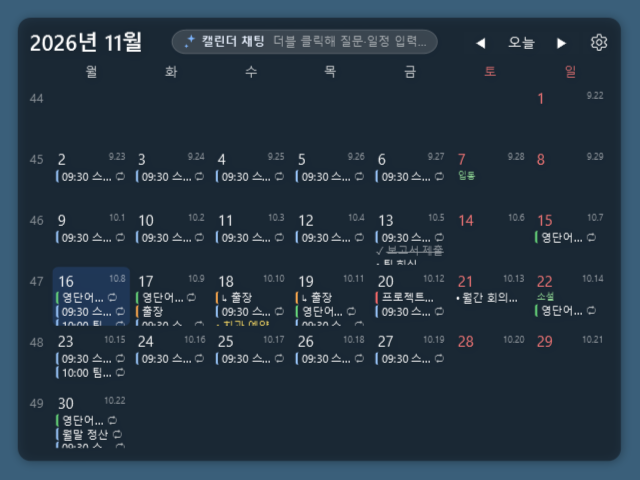
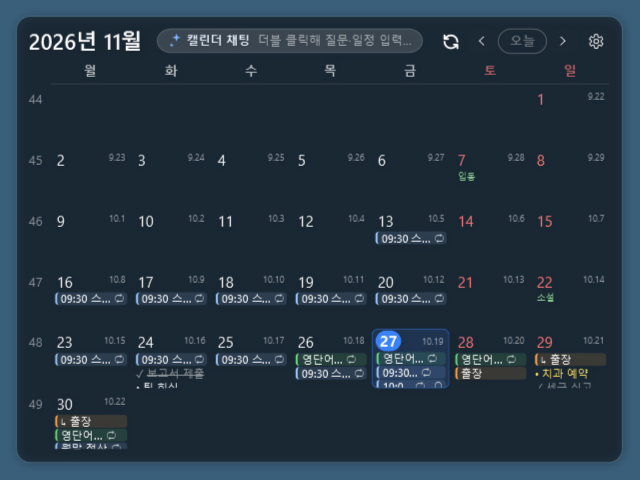
s

diff --git a/src/DeskCal.App/MainWindow.xaml b/src/DeskCal.App/MainWindow.xaml
@@ -5,11 +5,37 @@
         WindowStyle="None" AllowsTransparency="True" Background="Transparent"
         ShowInTaskbar="False" ResizeMode="NoResize" ShowActivated="False"
         UseLayoutRounding="True" TextOptions.TextFormattingMode="Display">
+    <Window.Resources>
+        <!-- header icon buttons: one size, one hover/pressed state layer -->
+        <Style x:Key="NavBtn" TargetType="Border">
+            <Setter Property="MinWidth" Value="28"/>
+            <Setter Property="Height" Value="26"/>
+            <Setter Property="Padding" Value="6,0"/>
+            <Setter Property="CornerRadius" Value="7"/>
+            <Setter Property="Cursor" Value="Hand"/>
+            <Setter Property="VerticalAlignment" Value="Center"/>
+            <Setter Property="Background" Value="#01FFFFFF"/>
+            <Style.Triggers>
+                <Trigger Property="IsMouseOver" Value="True">
+                    <Setter Property="Background" Value="#24FFFFFF"/>
+                </Trigger>
+                <Trigger Property="IsEnabled" Value="False">
+                    <Setter Property="Background" Value="#01FFFFFF"/>
+                </Trigger>
+            </Style.Triggers>
+        </Style>
+        <Style x:Key="NavGlyph" TargetType="TextBlock">
+            <Setter Property="FontFamily" Value="Segoe Fluent Icons, Segoe MDL2 Assets, Segoe UI Symbol"/>
+            <Setter Property="FontSize" Value="12"/>
+            <Setter Property="HorizontalAlignment" Value="Center"/>
+            <Setter Property="VerticalAlignment" Value="Center"/>
+        </Style>
+    </Window.Resources>
     <Border x:Name="Frame" CornerRadius="14" Background="#99101820"
-            BorderBrush="Transparent" BorderThickness="2">
+            BorderBrush="#1FFFFFFF" BorderThickness="1">
       <Grid>
         <!-- optional background photo (see ApplySkin) -->
-        <Border x:Name="SkinLayer" CornerRadius="12" IsHitTestVisible="False" Visibility="Collapsed"/>
+        <Border x:Name="SkinLayer" CornerRadius="13" IsHitTestVisible="False" Visibility="Collapsed"/>
         <Border Padding="12,10,12,12">
         <Grid x:Name="Root">
             <Grid.RowDefinitions>
@@ -93,23 +119,24 @@
                             </Path.RenderTransform>
                         </Path>
                     </Border>
-                    <Border x:Name="PrevBtn" Padding="10,2" Cursor="Hand" Background="#01FFFFFF"
+                    <!-- month navigation: vector chevrons (no text arrows), shared hover state, Today as a pill -->
+                    <Border x:Name="PrevBtn" Style="{StaticResource NavBtn}"
                             MouseLeftButtonDown="Prev_Click" ToolTip="이전">
-                        <TextBlock x:Name="PrevText" Text="◀" FontSize="14"/>
+                        <TextBlock x:Name="PrevText" Text="&#xE76B;" Style="{StaticResource NavGlyph}"/>
                     </Border>
-                    <Border x:Name="TodayBtn" Padding="10,2" Cursor="Hand" Background="#01FFFFFF"
+                    <Border x:Name="TodayBtn" Style="{StaticResource NavBtn}" Padding="11,0" Margin="2,0"
+                            BorderBrush="#44FFFFFF" BorderThickness="1" CornerRadius="13"
                             MouseLeftButtonDown="Today_Click" ToolTip="오늘로 이동">
-                        <TextBlock x:Name="TodayText" Text="오늘" FontSize="14"/>
+                        <TextBlock x:Name="TodayText" Text="오늘" FontSize="12.5" FontWeight="SemiBold" VerticalAlignment="Center"/>
                     </Border>
-                    <Border x:Name="NextBtn" Padding="10,2" Cursor="Hand" Background="#01FFFFFF"
+                    <Border x:Name="NextBtn" Style="{StaticResource NavBtn}"
                             MouseLeftButtonDown="Next_Click" ToolTip="다음">
-                        <TextBlock x:Name="NextText" Text="▶" FontSize="14"/>
+                        <TextBlock x:Name="NextText" Text="&#xE76C;" Style="{StaticResource NavGlyph}"/>
                     </Border>
                     <!-- settings gear: icon only; opens the quick menu (see App.ShowQuickMenu) -->
-                    <Border x:Name="GearBtn" Padding="8,2,2,2" Margin="4,0,0,0" Cursor="Hand" Background="#01FFFFFF"
+                    <Border x:Name="GearBtn" Style="{StaticResource NavBtn}" Margin="6,0,0,0"
                             MouseLeftButtonDown="Gear_Click" ToolTip="캘린더 설정">
-                        <TextBlock x:Name="GearText" Text="&#xE713;" FontSize="17" VerticalAlignment="Center"
-                                   FontFamily="Segoe Fluent Icons, Segoe MDL2 Assets, Segoe UI Symbol"/>
+                        <TextBlock x:Name="GearText" Text="&#xE713;" Style="{StaticResource NavGlyph}" FontSize="15"/>
                     </Border>
                 </StackPanel>
             </Grid>

diff --git a/src/DeskCal.App/MainWindow.xaml.cs b/src/DeskCal.App/MainWindow.xaml.cs
@@ -1070,8 +1070,9 @@ public partial class MainWindow : Window
         var off = Brush(s.OffDayColor, Color.FromRgb(0xFF, 0x7A, 0x7A));
         var font = new FontFamily(s.FontFamily);
 
-        foreach (var tb in new[] { MonthTitle, PrevText, TodayText, NextText }) { tb.Foreground = text; tb.FontFamily = font; }
-        GearText.Foreground = text;   // keeps its own icon font
+        foreach (var tb in new[] { MonthTitle, TodayText }) { tb.Foreground = text; tb.FontFamily = font; }
+        foreach (var tb in new[] { PrevText, NextText, GearText }) tb.Foreground = text;   // keep their own icon font
+        TodayBtn.BorderBrush = new SolidColorBrush(WithAlpha(((SolidColorBrush)text).Color, 0x44));
         bool canGoToday = !BoardLayout.IsAtToday(_anchor, _renderedToday, s);
         TodayBtn.IsEnabled = canGoToday;
         TodayBtn.Cursor = canGoToday ? System.Windows.Input.Cursors.Hand : System.Windows.Input.Cursors.Arrow;
@@ -1102,10 +1103,22 @@ public partial class MainWindow : Window
             Place(new TextBlock
             {
                 Text = culture.DateTimeFormat.GetAbbreviatedDayName(dow),
-                Foreground = isOff ? off : text, Opacity = 0.8, FontFamily = font, FontSize = headerSize,
-                HorizontalAlignment = HorizontalAlignment.Center, Margin = new Thickness(0, 0, 0, 4),
+                Foreground = isOff ? off : text, Opacity = 0.72, FontFamily = font, FontSize = headerSize,
+                FontWeight = FontWeights.SemiBold,
+                HorizontalAlignment = HorizontalAlignment.Center, Margin = new Thickness(0, 0, 0, 6),
             }, 0, c + colOffset);
         }
+        // hairline under the weekday labels: separates the header from the day grid
+        var rule = new Border
+        {
+            Height = 1, VerticalAlignment = VerticalAlignment.Bottom, IsHitTestVisible = false,
+            Background = new SolidColorBrush(WithAlpha(((SolidColorBrush)text).Color, 0x22)),
+            Margin = new Thickness(s.CellGap / 2.0, 0, s.CellGap / 2.0, 0),
+        };
+        Grid.SetRow(rule, 0);
+        Grid.SetColumn(rule, colOffset);
+        Grid.SetColumnSpan(rule, grid.Columns);
+        GridHost.Children.Add(rule);
 
         bool dense = grid.Columns > 7;                // single-line modes: narrow cells
         double dayFont = dense ? Math.Max(9, s.FontSize - 3) : s.FontSize;
@@ -1181,15 +1194,26 @@ public partial class MainWindow : Window
         var shown = _countdowns is null || _contentHidden ? []
             : CountdownCalc.Ordered(_countdowns.List().Where(c => c.ShowBottom), _renderedToday);
         CountdownBar.Visibility = shown.Count == 0 ? Visibility.Collapsed : Visibility.Visible;
+        var textColor = ((SolidColorBrush)text).Color;
+        var accent = Color.FromRgb(0x3B, 0x82, 0xF6);
         foreach (var (cd, status) in shown)
         {
-            var tb = new TextBlock
+            // one chip per countdown: the "D-12" label in bold, then the title; D-Day itself gets the accent fill
+            bool isDay = status.Days == 0 && !status.Elapsed;
+            string summary = CountdownCalc.Summary(cd, status);
+            string rest = summary.StartsWith(status.Label, StringComparison.Ordinal) ? summary[status.Label.Length..] : " " + summary;
+            var tb = new TextBlock { Foreground = isDay ? Brushes.White : text, FontFamily = font, FontSize = size, VerticalAlignment = VerticalAlignment.Center };
+            var label = new Run(status.Label) { FontWeight = FontWeights.Bold };
+            Typography.SetNumeralAlignment(label, FontNumeralAlignment.Tabular);
+            tb.Inlines.Add(label);
+            tb.Inlines.Add(new Run(rest));
+            CountdownBar.Children.Add(new Border
             {
-                Text = CountdownCalc.Summary(cd, status), Foreground = text, FontFamily = font, FontSize = size,
-                Margin = new Thickness(0, 0, 14, 0), Opacity = status.Elapsed ? 0.65 : 0.95,
-            };
-            if (status.Days == 0 && !status.Elapsed) tb.FontWeight = FontWeights.Bold;
-            CountdownBar.Children.Add(tb);
+                Child = tb, CornerRadius = new CornerRadius(size), Padding = new Thickness(9, 2, 10, 3), Margin = new Thickness(0, 0, 6, 4),
+                Background = new SolidColorBrush(isDay ? accent : WithAlpha(textColor, 0x16)),
+                BorderBrush = new SolidColorBrush(isDay ? accent : WithAlpha(textColor, 0x26)), BorderThickness = new Thickness(1),
+                Opacity = status.Elapsed ? 0.6 : 1.0, ToolTip = summary,
+            });
         }
     }
 
@@ -1249,7 +1273,13 @@ public partial class MainWindow : Window
             border.Background = new SolidColorBrush(WithAlpha(cc, 0x66));
         else if (isHighlighted) border.Background = new SolidColorBrush(Color.FromArgb(0x38, 0xFF, 0xC8, 0x57));
         else if (cell.IsToday) border.Background = new SolidColorBrush(dense ? Color.FromArgb(0xB0, accent.R, accent.G, accent.B)
-                                                                              : Color.FromArgb(0x30, accent.R, accent.G, accent.B));
+                                                                              : Color.FromArgb(0x26, accent.R, accent.G, accent.B));
+        if (cell.IsToday && !isHighlighted && !dense)
+        {
+            // today: a thin accent outline on top of the tint, so it reads even over a busy background photo
+            border.BorderBrush = new SolidColorBrush(Color.FromArgb(0x8C, accent.R, accent.G, accent.B));
+            border.BorderThickness = new Thickness(1);
+        }
         else if (isDayOffCell && !string.IsNullOrWhiteSpace(s.HolidayBgColor))
         {
             var hc = UiColors.Parse(s.HolidayBgColor, Colors.Transparent);
@@ -1272,6 +1302,22 @@ public partial class MainWindow : Window
             Margin = new Thickness(6, 4, 0, 0),
         };
         UIElement head = number;
+        if (cell.IsToday && !dense)
+        {
+            // today's number sits on a filled accent pill: the strongest mark on the board, found at a glance
+            number.Margin = new Thickness(0);
+            number.Foreground = Brushes.White;
+            number.FontWeight = FontWeights.Bold;
+            number.HorizontalAlignment = HorizontalAlignment.Center;
+            number.VerticalAlignment = VerticalAlignment.Center;
+            head = new Border
+            {
+                Background = new SolidColorBrush(accent), Child = number,
+                MinWidth = size * 1.4, Height = size * 1.4, CornerRadius = new CornerRadius(size * 0.7),
+                Padding = new Thickness(4, 0, 4, 0), Margin = new Thickness(3, 1, 0, 0),
+                HorizontalAlignment = HorizontalAlignment.Left,
+            };
+        }
 
         var stack = new StackPanel { Opacity = cell.InAnchorMonth ? 1.0 : 0.42 };
         stack.Children.Add(!dense && info is not null ? WithAnnotations(head, info, s, text, holidayBrush, font, size) : head);
@@ -1304,6 +1350,14 @@ public partial class MainWindow : Window
         border.ContextMenu = BuildCellMenu(cell.Date);
         // A single click does nothing (it used to open the editor, which fired by accident); double-click opens it.
         border.MouseLeftButtonDown += (_, e) => { if (e.ClickCount == 2 && !_editMode && !e.Handled) { e.Handled = true; OpenEditor(cell.Date); } };
+        // hover state layer: shows which day a double-click will open
+        var restBg = border.Background;
+        var restColor = (restBg as SolidColorBrush)?.Color ?? Colors.Transparent;
+        var hoverBg = new SolidColorBrush(restColor.A < 0x14
+            ? WithAlpha(((SolidColorBrush)text).Color, 0x14)
+            : WithAlpha(restColor, (byte)Math.Min(0xFF, restColor.A + 0x1C)));
+        border.MouseEnter += (_, _) => { if (!_editMode) border.Background = hoverBg; };
+        border.MouseLeave += (_, _) => border.Background = restBg;
         _cells[cell.Date] = border;
         return border;
     }
@@ -1353,22 +1407,40 @@ public partial class MainWindow : Window
 
     private static readonly SolidColorBrush DefaultEventBrush = Brush("#9CC9FF", Colors.LightSkyBlue);
 
+    /// <summary>The "reminder set" mark at the end of a line: a vector bell glyph in the line's colour (not an emoji, which
+    /// renders in its own palette and size on every Windows build).</summary>
+    private static TextBlock ReminderMark(WpfBrush fg, double size) => new()
+    {
+        Text = "", FontFamily = IconFont, Foreground = fg, FontSize = Math.Max(8.0, size - 2.0),
+        VerticalAlignment = VerticalAlignment.Center, Margin = new Thickness(4, 0, 0, 0), Opacity = 0.8, ToolTip = "알림 설정됨",
+    };
+
     /// <summary>An event inside a day cell: coloured left bar, time (first day only), title, done/repeat/D-day/reminder marks.</summary>
     private UIElement MakeEventLine(EventOccurrence occ, DateOnly day, WpfBrush text, FontFamily font, double size)
     {
         var color = occ.Event.Color is { } hex ? Brush(hex, Colors.LightSkyBlue) : DefaultEventBrush;
         bool done = occ.Event.Done;
         string donePrefix = done ? "✓ " : "";
-        string prefix = donePrefix + (day > occ.Date ? "↳ " : occ.StartTime is { } t ? $"{t:HH:mm} " : "");
+        string lead = day > occ.Date ? "↳ " : "";
+        string? time = day > occ.Date ? null : occ.StartTime is { } t ? $"{t:HH:mm}" : null;
         bool repeating = RecurrenceRule.From(occ.Event).IsRepeating;
 
         var tb = new TextBlock
         {
-            Text = prefix + occ.Event.Title, Foreground = text, FontFamily = font, FontSize = size,
+            Foreground = text, FontFamily = font, FontSize = size,
             TextTrimming = TextTrimming.CharacterEllipsis, TextWrapping = TextWrapping.NoWrap,
             TextDecorations = done ? TextDecorations.Strikethrough : null,
             Opacity = done ? 0.55 : 1.0,
         };
+        tb.Inlines.Add(new Run(donePrefix + lead));
+        if (time is not null)
+        {
+            // the start time is the scan key of a day: semibold and tabular so times line up across cells
+            var tr = new Run(time + " ") { FontWeight = FontWeights.SemiBold };
+            Typography.SetNumeralAlignment(tr, FontNumeralAlignment.Tabular);
+            tb.Inlines.Add(tr);
+        }
+        tb.Inlines.Add(new Run(occ.Event.Title));
 
         UIElement mainCol;
         if (repeating)
@@ -1391,7 +1463,7 @@ public partial class MainWindow : Window
         if (occ.Event.CountdownId is { } cdId && _countdownLabels.TryGetValue(cdId, out var dday))
             marks.Children.Add(new TextBlock { Text = dday, Foreground = text, FontFamily = font, FontSize = size - 1, FontWeight = FontWeights.SemiBold, Margin = new Thickness(4, 0, 0, 0), ToolTip = "기념일까지 카운트다운" });
         if (_settings.ShowReminderMark && _eventsWithReminder.Contains(occ.Event.Id))
-            marks.Children.Add(new TextBlock { Text = "⏰", FontSize = size - 1, Margin = new Thickness(3, 0, 0, 0), Opacity = 0.85, ToolTip = "알림 설정됨" });
+            marks.Children.Add(ReminderMark(text, size));
 
         UIElement child;
         if (marks.Children.Count > 0)
@@ -1410,10 +1482,12 @@ public partial class MainWindow : Window
             child = mainCol;
         }
 
+        // a soft chip in the event's own colour (left bar + faint tint); a done event drops the tint
+        var tint = done ? Brushes.Transparent : new SolidColorBrush(WithAlpha(color.Color, 0x24));
         var row = new Border
         {
-            Margin = new Thickness(4, _settings.LineGap, 2, 0), Padding = new Thickness(4, 0, 2, 0), CornerRadius = new CornerRadius(2),
-            BorderBrush = color, BorderThickness = new Thickness(2.5, 0, 0, 0), Background = Brushes.Transparent,
+            Margin = new Thickness(4, _settings.LineGap, 3, 0), Padding = new Thickness(4, 0, 3, 0), CornerRadius = new CornerRadius(3),
+            BorderBrush = color, BorderThickness = new Thickness(2.5, 0, 0, 0), Background = tint,
             Cursor = System.Windows.Input.Cursors.Hand,
             Child = child,
         };
@@ -1555,12 +1629,12 @@ public partial class MainWindow : Window
         Grid.SetColumn(textCol, 1);
         row.Children.Add(textCol);
 
-        // small marks at the right end of the line: D-day label, reminder (⏰)
+        // small marks at the right end of the line: D-day label, reminder bell
         var marks = new StackPanel { Orientation = Orientation.Horizontal, VerticalAlignment = VerticalAlignment.Center };
         if (item.CountdownId is { } cdId && _countdownLabels.TryGetValue(cdId, out var dday))
             marks.Children.Add(new TextBlock { Text = dday, Foreground = fg, FontFamily = font, FontSize = size - 1, FontWeight = FontWeights.SemiBold, Margin = new Thickness(4, 0, 0, 0), ToolTip = "기념일까지 카운트다운" });
         if (s.ShowReminderMark && _itemsWithReminder.Contains(item.Id))
-            marks.Children.Add(new TextBlock { Text = "⏰", FontSize = size - 1, Margin = new Thickness(3, 0, 0, 0), Opacity = 0.85, ToolTip = "알림 설정됨" });
+            marks.Children.Add(ReminderMark(fg, size));
         if (marks.Children.Count > 0)
         {
             Grid.SetColumn(marks, 2);

diff --git a/src/DeskCal.App/SettingsWindow.cs b/src/DeskCal.App/SettingsWindow.cs
@@ -275,7 +275,7 @@ internal sealed class SettingsWindow : Window
         page.Children.Add(Card("항목 동작",
             RowToggle("완료한 항목을 맨 아래로", "체크한 항목이 그날의 마지막 줄로 내려갑니다", () => S.MoveDoneToBottom, v => Apply(s => s with { MoveDoneToBottom = v })),
             RowToggle("완료한 항목 표시", null, () => S.ShowCompleted, v => Apply(s => s with { ShowCompleted = v })),
-            RowToggle("알림 표시 (⏰)", "알림이 걸린 항목 옆에 시계 표시", () => S.ShowReminderMark, v => Apply(s => s with { ShowReminderMark = v })),
+            RowToggle("알림 표시 (🔔)", "알림이 걸린 항목 옆에 종 표시", () => S.ShowReminderMark, v => Apply(s => s with { ShowReminderMark = v })),
             RowToggle("완료 효과음", null, () => S.CompleteSound, v => Apply(s => s with { CompleteSound = v })),
             RowToggle("알림음", null, () => S.ReminderSound, v => Apply(s => s with { ReminderSound = v }))));
         return page;

diff --git a/docs/USER_GUIDE.md b/docs/USER_GUIDE.md
@@ -87,7 +87,7 @@ M-DeskCal 은 Windows 바탕화면에 붙는 달력입니다. 날짜 칸에 할 
 | 구획 | 탭 | 내용 |
 |---|---|---|
 | **캘린더 설정** | 캘린더 | 표시 방식(5가지 모드), 최대 행·지난 주 표시·한 줄 표시 일수, 주 번호·그림자, 음력·24절기·공휴일·기념일/명절 표시 |
-| | 셀 | 항목 기호(없음/번호/점), 셀 간격·줄 간격, 완료 항목 맨 아래로·완료 항목 표시·알림 표시(⏰)·완료 효과음·알림음 |
+| | 셀 | 항목 기호(없음/번호/점), 셀 간격·줄 간격, 완료 항목 맨 아래로·완료 항목 표시·알림 표시(🔔)·완료 효과음·알림음 |
 | | 글꼴 및 색상 | 글꼴·크기·글자색, 캘린더 배경·**휴일 배경색**·휴일/쉬는 날/24절기 글자색, 배경 투명도, 배경 사진(폴더·맞춤·바꾸는 주기) |
 | | 고급 | 시작 요일, 첫 번째 주 기준, 쉬는 날 지정, 단축키, Windows 시작 시 자동 실행, 휴일 데이터 편집·다시 읽기 |
 | **기능 · 서비스** | 부가 기능 | 디데이 관리, 주간 시간표 편집 및 바탕화면 시간표 위젯 표시 |
@@ -132,7 +132,7 @@ M-DeskCal 은 Windows 바탕화면에 붙는 달력입니다. 날짜 칸에 할 
 | 이전 내용 되돌리기 | 항목 우클릭 → 이력 보기… → 복원 |
 | 일정 추가 | 날짜 칸 우클릭 → 일정 추가… (또는 `Ctrl+Alt+E`) |
 | 일정 고치기/지우기 | 일정 우클릭 → 일정 편집… / 일정 삭제… (반복 일정은 "이 일정만 / 이후 모두 / 전체" 선택) |
-| 달 넘기기 | 마우스 휠, 또는 달력 위쪽의 ◀ ▶ 버튼. 오늘로 돌아가기는 가운데 "오늘" 버튼 |
+| 달 넘기기 | 마우스 휠, 또는 달력 위쪽의 ‹ › 버튼. 오늘로 돌아가기는 가운데 "오늘" 버튼 |
 | 위치·크기 바꾸기 | ⚙ 또는 트레이 → **위치/크기 조정** (2.2) |
 
 ![할 일 입력창](images/editor.png)
@@ -144,7 +144,7 @@ M-DeskCal 은 Windows 바탕화면에 붙는 달력입니다. 날짜 칸에 할 
 | ✓ 작업 완료 표시 | 그 줄을 완료로 표시(취소선)·해제. 입력창 안에서도 취소선으로 보입니다 |
 | 🎨 텍스트 색상 / 셀 색상 | 글자색(그 줄)과 날짜 칸 배경색(그 날짜 칸 전체)을 팔레트에서 고름. 맨 앞 칸은 기본색으로 되돌리기, 무지개 칸은 다른 색 선택, **최근 사용** 색이 위에 남습니다 |
 | 🔁 작업 반복 | 매일·평일·법정 근무일·매주·매월(날짜/요일)·말일·분기말·매년·음력 매년·에빙하우스, 간격, 종료(무한/횟수/종료일). 달력에는 ↻ 로 표시 |
-| 🔔 알림 | 알림 시각(시:분)과 시점(당일·1일 전·2일 전·3일 전·1주 전, 여러 개 선택). 달력에는 ⏰ 로 표시 |
+| 🔔 알림 | 알림 시각(시:분)과 시점(당일·1일 전·2일 전·3일 전·1주 전, 여러 개 선택). 달력에는 🔔 로 표시 |
 | ⏱ 기념일까지 카운트 다운 | 그 항목의 날짜를 D-day 로 만듦(일반·시험·생일·명절/기념일·만난 날), 바탕화면 카드/달력 아래 줄 표시 선택. 항목 오른쪽에 `D-12` 처럼 표시 |
 
 <table>
